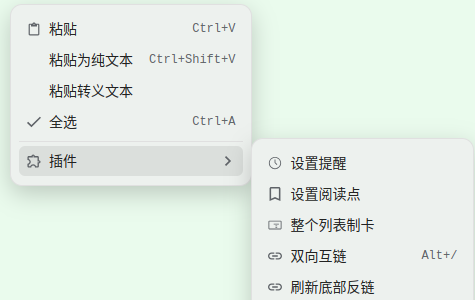
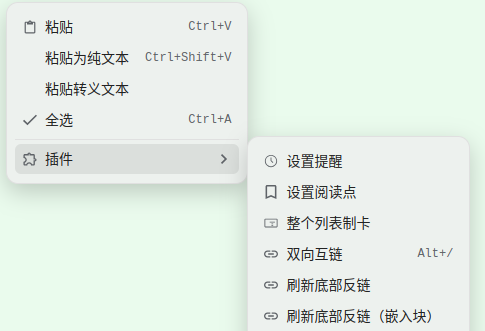
auto

diff --git a/sy-tomato-plugin/README_zh_CN.md b/sy-tomato-plugin/README_zh_CN.md
@@ -37,6 +37,8 @@
 
 **使用方法： 右键，插件->刷新底部反链**
 
+> 分为嵌入块和直接复制两种模式。
+
 ![Alt text](assets/logseqmenu.png)
 
 ## 极简反链
